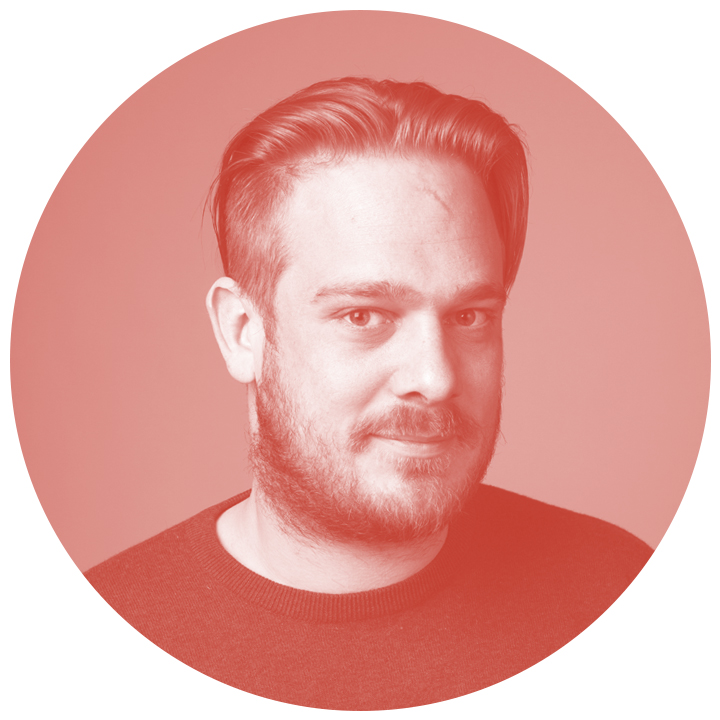
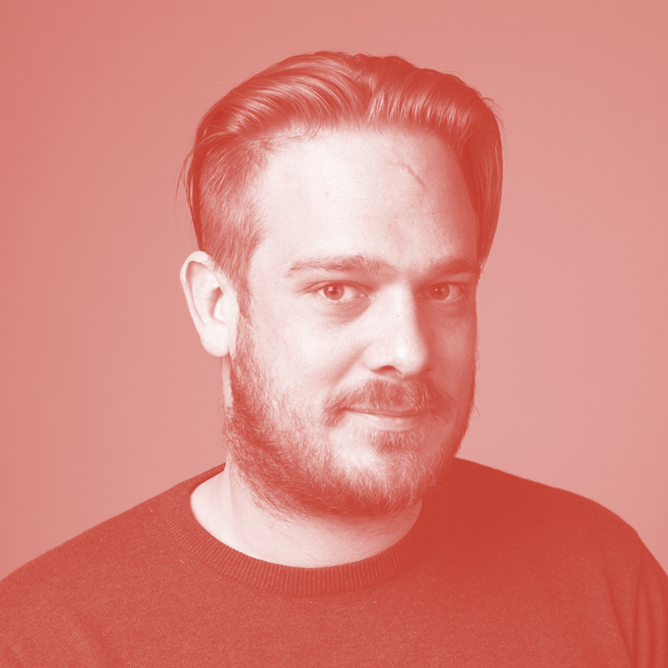
fixes image mobile version, back to top button

diff --git a/css/style.css b/css/style.css
@@ -15,7 +15,6 @@ body {
     line-height: 18px;
     color: #2c3e50;
     background-color: white;
-    padding: 10px 13px 10px 13px;
     box-sizing: border-box;
 
 }
@@ -59,24 +58,28 @@ h6 {
     text-transform: uppercase;
 }
 h1 {
-    margin-bottom: 18px;
-    font-size: 30px;
+  margin-bottom: 18px;
+  font-size: 30px;
 }
 h2 {
-    font-size: 24px;
+  font-size: 24px;
 }
 h3 {
-    font-size: 18px;
+  font-size: 18px;
+}
+h3:first-child {
+  padding-top: 0;
+  font-size: 18px;
 }
 h4 {
-    font-size: 16px;
+  font-size: 16px;
 }
 h5 {
     margin-left: 15px;
-    font-size: 14px;
+  font-size: 14px;
 }
 h6 {
-    font-size: 13px;
+  font-size: 13px;
 }
 hr {
     margin: 0 0 19px;
@@ -144,11 +147,19 @@ sup {
 }
 
 /* MY SHIT */
-
+h1 {
+  display: none;
+}
 .container {
   width: 600px;
   max-width: 100%;
+  padding: 0 15px;
   margin: 0 auto;
+  box-sizing: border-box;
+
+}
+.container-img {
+  padding: 10px 15px 0;
 }
 
 
@@ -158,16 +169,55 @@ sup {
   clear: both;
 }
 
-img {
-  width: 220px;
+.image {
+  display: block;
+  width: 200px;
   float: right;
-  right: 15px;
+  border-radius: 50%;
 }
-@media screen and (max-width: 640px) {
+
+footer {
+  text-align: center;
+}
+
+i {
+  color: #34495e;
+  margin: 0 0 19px;
+
+}
+
+@media screen and (max-width: 600px) {
     body {
-        width: 100%;
-        mar: 15px;
+      width: 100%;
     }
+    .container {
+      width: 100%;
+    }
+}
+@media screen and (max-width: 540px) {
+  .container-img {
+    position: relative;
+    padding: 0;
+  }
+  .image {
+    margin: 0 auto;
+    border-radius: 0;
+    width: 100%;
+  }
+  h3:first-child {
+    padding-top: 20px;
+    font-size: 18px;
+  }
+  h1 {
+    display: block;
+    position: absolute;
+    color: white;
+    font-size: 90px;
+    line-height: 90px;
+    text-align: center;
+    width: 100%;
+    height: 100%;
+  }
 }
 /*
 @media print {

diff --git a/index.html b/index.html
@@ -4,20 +4,22 @@
   <meta charset="utf-8"/>
   <title>Alex Jenter | resumé</title>
   <meta name="viewport" content="width=device-width, initial-scale=1.0">
+  <link rel="stylesheet" href="https://maxcdn.bootstrapcdn.com/font-awesome/4.4.0/css/font-awesome.min.css">
   <link rel="stylesheet" type="text/css" href="css/style.css" media="screen">
 </head>
 <body>
-
+  <a name="top"></a>
+  <div class="container container-img">
+      <img class="image" src="./img/foto-av.jpg" alt="" />
     <div id="main" class="container">
-        <p><img src="./img/foto-av.jpg" alt=""></p>
-<h3 id="pers-nliche-daten">Persönliche Daten</h3>
+        <h3 id="pers-nliche-daten">Persönliche Daten</h3>
 <p>Alex Jenter<br>Anwandstrasse 82<br>8004 Zürich</p>
 <p><a href="mailto:jenteralex@gmail.com">jenteralex@gmail.com</a></p>
 <table>
     <tr><td>Nationalität:</td> <td>Schweizer</td><tr>
     <tr><td>Geboren:</td>      <td>03.06.1980</td><tr>
     <tr><td>Zivilstand:</td>   <td>ledig</td><tr>
-    <tr><td>Kinde:</td>        <td>Keine</td><tr>
+    <tr><td>Kinder:</td>        <td>Keine</td><tr>
 </table>
 
 <h3 id="beruflicher-werdegang">Beruflicher Werdegang</h3>
@@ -63,10 +65,15 @@
 </table>
 
 <h3 id="pers-nliche-interessen">Persönliche Interessen</h3>
-<p>Generatives Design, Polygonmodeling, digitale Fabrikation, kleinere Arduino Projekte
-<br><br><br><br><br><br><br><br><br><br></p>
+<p>Generatives Design, Polygonmodeling, digitale Fabrikation, kleinere Arduino Projekte</p>
 
     </div>
-
+  </div>
+  <footer class="container">
+    <hr>
+    <a href="#top">
+      <i class="fa fa-angle-double-up fa-2x"></i>
+    </a>
+  </footer>
 </body>
 </html>

diff --git a/templates/index.html b/templates/index.html
@@ -4,13 +4,22 @@
   <meta charset="utf-8"/>
   <title>Alex Jenter | resumé</title>
   <meta name="viewport" content="width=device-width, initial-scale=1.0">
+  <link rel="stylesheet" href="https://maxcdn.bootstrapcdn.com/font-awesome/4.4.0/css/font-awesome.min.css">
   <link rel="stylesheet" type="text/css" href="css/style.css" media="screen">
 </head>
 <body>
-
+  <a name="top"></a>
+  <div class="container container-img">
+      <img class="image" src="./img/foto-av.jpg" alt="" />
     <div id="main" class="container">
         <%=content%>
     </div>
-
+  </div>
+  <footer class="container">
+    <hr>
+    <a href="#top">
+      <i class="fa fa-angle-double-up fa-2x"></i>
+    </a>
+  </footer>
 </body>
 </html>

diff --git a/index.md b/index.md
@@ -1,5 +1,3 @@
-![](./img/foto-av.jpg)
-
 ### Persönliche Daten
 Alex Jenter    
 Anwandstrasse 82  
@@ -11,7 +9,7 @@ Anwandstrasse 82
     <tr><td>Nationalität:</td> <td>Schweizer</td><tr>
     <tr><td>Geboren:</td>      <td>03.06.1980</td><tr>
     <tr><td>Zivilstand:</td>   <td>ledig</td><tr>
-    <tr><td>Kinde:</td>        <td>Keine</td><tr>
+    <tr><td>Kinder:</td>        <td>Keine</td><tr>
 </table>
 
 ### Beruflicher Werdegang
@@ -75,4 +73,3 @@ Primar- sowie Sekundarschule in Winterthur
 
 ### Persönliche Interessen
 Generatives Design, Polygonmodeling, digitale Fabrikation, kleinere Arduino Projekte
-<br><br><br><br><br><br><br><br><br><br>
